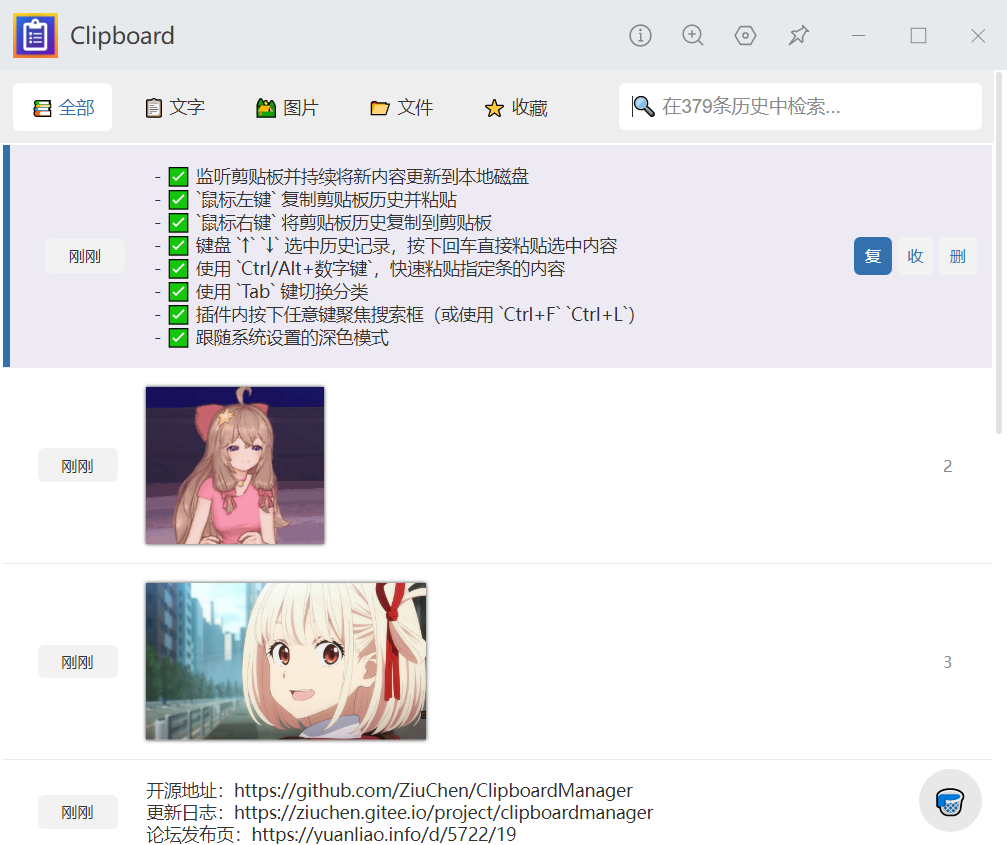
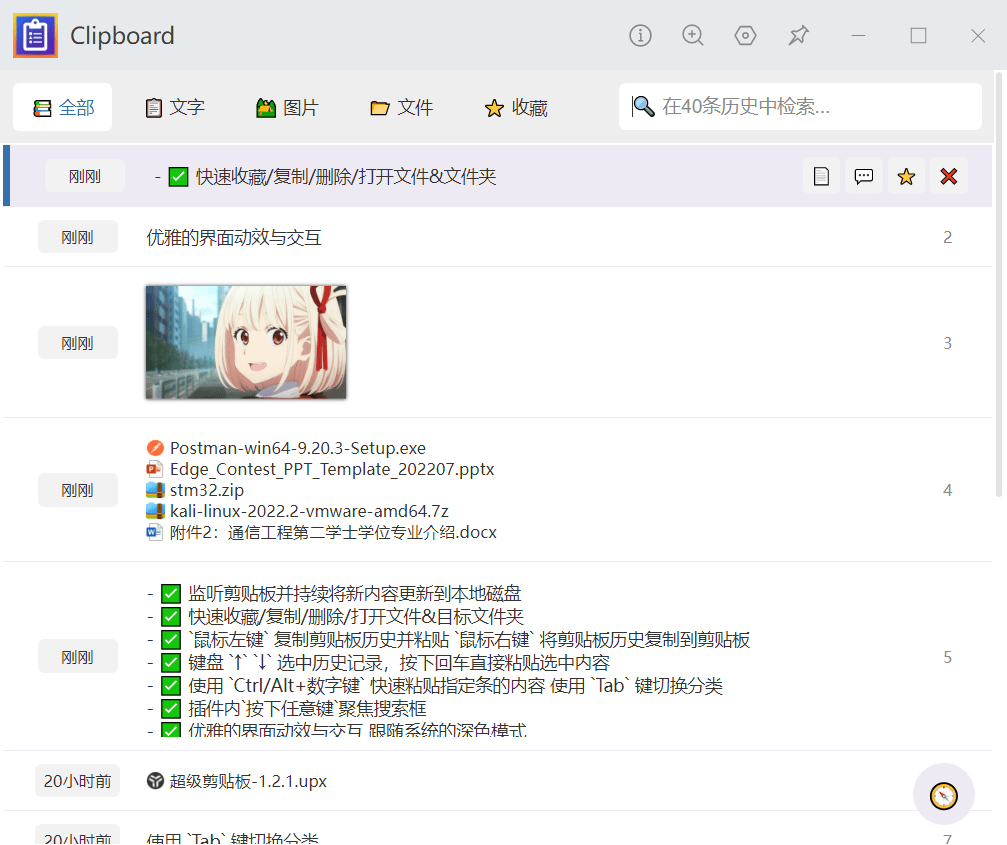
docs: CM v1.2.1 log update

diff --git a/docs/project/ClipboardManager/log/README.md b/docs/project/ClipboardManager/log/README.md
@@ -6,6 +6,19 @@ sidebarDepth: 2
 
 # 更新日志
 
+## v1.2.1
+
+`2022-09-05`
+
+- feat: 支持通过功能按钮进入任意数据的预览页面
+- feat: 支持通过功能按钮打开`文件所在目录`
+- feat: 添加`取消收藏`功能按钮
+- feat: 搜索框支持展开/收起 输入任意内容展开并聚焦搜索
+- feat: 侧栏预览页添加`复制全部`与`智慧分词`按钮
+- feat: 功能按钮改为使用图标展示
+- feat: 优化了界面样式
+- refactor: 清理定时器 优化插件性能
+
 ## v1.2.0
 
 `2022-09-04`
